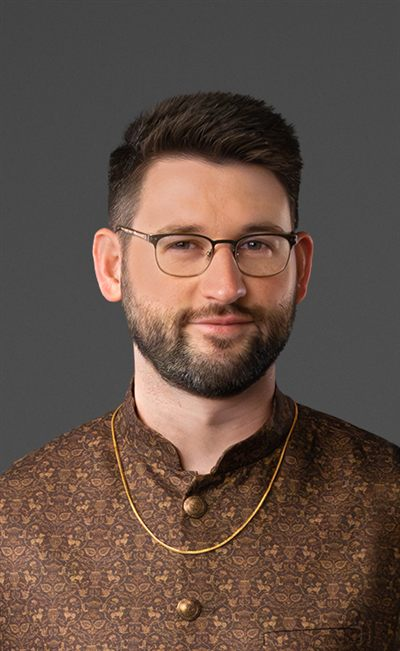
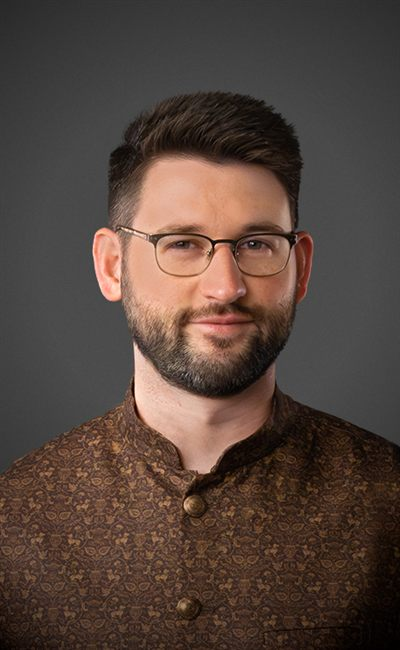
Rename section to Code, add repo thumbnails, add PhD to title, reorder publications, edit profile.png and about me text.

diff --git a/index.html b/index.html
@@ -25,7 +25,7 @@
   <header class="hero">
     <div class="wide">
       <div class="kicker">Research &amp; engineering</div>
-      <h1>Joe Bretz</h1>
+      <h1>Joe Bretz, PhD</h1>
       <p class="role">Physicist &middot; AI &amp; ML Engineer &middot; Data Scientist &middot; Cloud Developer</p>
       <p class="lede">I study gravitational waves from binary neutron stars, and how tidal interactions reveal what matter is like at its densest.</p>
       <p class="affil">Department of Physics, Montana State University, Bozeman, MT, USA</p>
@@ -75,29 +75,29 @@
         <h2 id="pubs-h">Publications</h2>
         <ul class="pubs">
           <li>
-            Bretz, J. &amp; Yu, H. (2026).
+            <b>Bretz, J.</b> &amp; Yu, H. (2026).
             <span class="title">Impact on Inferred Neutron Star Equation of State due to Nonlinear Hydrodynamics, Background Spin, and Relativity.</span>
-            <span class="where meta">Classical and Quantum Gravity &middot; <a href="https://doi.org/10.1088/1361-6382/ae76b5" rel="noopener">doi:10.1088/1361-6382/ae76b5</a> &middot; <a href="https://arxiv.org/abs/2602.04951" rel="noopener">arXiv:2602.04951</a></span>
+            <span class="where meta">Classical and Quantum Gravity &middot; <a href="https://doi.org/10.1088/1361-6382/ae76b5" rel="noopener">doi:10.1088/1361-6382/ae76b5</a> &middot; <a href="https://arxiv.org/abs/2602.04951" rel="noopener">arXiv</a></span>
           </li>
           <li>
-            Presnetsova, L., Anderson, L., Wahl, D. &amp; Bretz, J. (2023).
-            <span class="title">Automated Charcoal Counting and the Application of Machine Learning to Enhance Quality and Speed of Sedimentary Charcoal Quantification.</span>
-            <span class="where meta">AGU Fall Meeting Abstracts, PP13C-1246 &middot; <a href="https://ui.adsabs.harvard.edu/abs/2023AGUFMPP13C1246P" rel="noopener">ADS</a></span>
+            <b>Bretz, J.</b>, van Eysden, C. A. &amp; Link, B. (2021).
+            <span class="title">Tangled magnetic field model of QPOs.</span>
+            <span class="where meta">Monthly Notices of the Royal Astronomical Society &middot; <a href="https://doi.org/10.1093/mnras/stab1220" rel="noopener">doi:10.1093/mnras/stab1220</a> &middot; <a href="https://arxiv.org/abs/2206.09544" rel="noopener">arXiv</a></span>
           </li>
           <li>
-            Overton, C. T., Casazza, M. L., Bretz, J., et al. (2022).
+            <b>Bretz, J.</b>, Yagi, K. &amp; Yunes, N. (2015).
+            <span class="title">Four-hair relations for differentially rotating neutron stars in the weak-field limit.</span>
+            <span class="where meta">Physical Review D 92, 083009 &middot; <a href="https://doi.org/10.1103/PhysRevD.92.083009" rel="noopener">doi:10.1103/PhysRevD.92.083009</a> &middot; <a href="https://arxiv.org/abs/1507.02278" rel="noopener">arXiv</a></span>
+          </li>
+          <li>
+            Overton, C. T., Casazza, M. L., <b>Bretz, J.</b>, et al. (2022).
             <span class="title">Machine learned daily life history classification using low frequency tracking data and automated modelling pipelines: application to North American waterfowl.</span>
             <span class="where meta">Movement Ecology &middot; <a href="https://doi.org/10.1186/s40462-022-00324-7" rel="noopener">doi:10.1186/s40462-022-00324-7</a></span>
           </li>
           <li>
-            Bretz, J., van Eysden, C. A. &amp; Link, B. (2021).
-            <span class="title">Tangled magnetic field model of QPOs.</span>
-            <span class="where meta">Monthly Notices of the Royal Astronomical Society &middot; <a href="https://doi.org/10.1093/mnras/stab1220" rel="noopener">doi:10.1093/mnras/stab1220</a></span>
-          </li>
-          <li>
-            Bretz, J., Yagi, K. &amp; Yunes, N. (2015).
-            <span class="title">Four-hair relations for differentially rotating neutron stars in the weak-field limit.</span>
-            <span class="where meta">Physical Review D 92, 083009 &middot; <a href="https://doi.org/10.1103/PhysRevD.92.083009" rel="noopener">doi:10.1103/PhysRevD.92.083009</a></span>
+            Presnetsova, L., Anderson, L., Wahl, D. &amp; <b>Bretz, J.</b> (2023).
+            <span class="title">Automated Charcoal Counting and the Application of Machine Learning to Enhance Quality and Speed of Sedimentary Charcoal Quantification.</span>
+            <span class="where meta">AGU Fall Meeting Abstracts, PP13C-1246 &middot; <a href="https://ui.adsabs.harvard.edu/abs/2023AGUFMPP13C1246P" rel="noopener">ADS</a></span>
           </li>
         </ul>
         <p class="more"><a href="https://scholar.google.com/citations?view_op=list_works&amp;hl=en&amp;user=k36jlxEAAAAJ" rel="noopener">Full list on Google Scholar</a></p>
@@ -107,11 +107,38 @@
     <section id="code" aria-labelledby="code-h">
       <div class="inner">
         <div class="kicker">Repositories</div>
-        <h2 id="code-h">Code and data</h2>
+        <h2 id="code-h">Code</h2>
         <ul class="repos">
-          <li><a href="https://github.com/AstroJoeBretz/cosmic-singing-bowls" rel="noopener">cosmic-singing-bowls</a><br>Code, data and site for the &ldquo;Cosmic Singing Bowls&rdquo; visual story.</li>
-          <li><a href="https://github.com/AstroJoeBretz" rel="noopener">github.com/AstroJoeBretz</a><br>All repositories.</li>
+          <!-- Repo row: copy this whole <li> to add a repo (480x384 image in assets/repos/) -->
+          <li>
+            <a class="repo-thumb" href="https://github.com/AstroJoeBretz/cosmic-singing-bowls" rel="noopener" tabindex="-1" aria-hidden="true">
+              <img src="assets/repos/cosmic-singing-bowls.jpg" width="480" height="384" alt="A singing bowl and mallet from the Cosmic Singing Bowls story" loading="lazy">
+            </a>
+            <div class="repo-text">
+              <a href="https://github.com/AstroJoeBretz/cosmic-singing-bowls" rel="noopener">cosmic-singing-bowls</a>
+              <p>Code, data and site for the &ldquo;Cosmic Singing Bowls&rdquo; visual story.</p>
+            </div>
+          </li>
+          <li>
+            <a class="repo-thumb" href="https://github.com/AstroJoeBretz/Tidal-BNS-Sculpture" rel="noopener" tabindex="-1" aria-hidden="true">
+              <img src="assets/repos/tidal-bns-sculpture.jpg" width="480" height="384" alt="A walnut sculpture with a spiral of spacetime ripples around two white neutron stars" loading="lazy">
+            </a>
+            <div class="repo-text">
+              <a href="https://github.com/AstroJoeBretz/Tidal-BNS-Sculpture" rel="noopener">Tidal-BNS-Sculpture</a>
+              <p>Generate STL files of 3D-modeled, tidally deformed binary neutron stars above spiraling spacetime ripples.</p>
+            </div>
+          </li>
+          <li>
+            <a class="repo-thumb" href="https://github.com/AstroJoeBretz/choppy-water" rel="noopener" tabindex="-1" aria-hidden="true">
+              <img src="assets/repos/choppy-water.jpg" width="480" height="384" alt="A 3D render of a disc with a choppy-water surface" loading="lazy">
+            </a>
+            <div class="repo-text">
+              <a href="https://github.com/AstroJoeBretz/choppy-water" rel="noopener">choppy-water</a>
+              <p>Generate STL files of Tessendorf-style (or Gerstner) choppy water pieces for 3D milling: a disc or rectangle with a flat bottom and a choppy-water top.</p>
+            </div>
+          </li>
         </ul>
+        <p class="more"><a href="https://github.com/AstroJoeBretz" rel="noopener">All repositories on GitHub</a></p>
       </div>
     </section>
 
@@ -121,11 +148,11 @@
         <h2 id="about-h">About me</h2>
         <div class="about">
           <div class="photo">
-            <img src="assets/profile.jpg" width="400" height="651" alt="Portrait of Joe Bretz" loading="lazy">
+            <img src="assets/profile.jpg" width="400" height="650" alt="Portrait of Joe Bretz" loading="lazy">
           </div>
           <div>
-            <p class="bio">I'm a theoretical astrophysicist with a PhD in physics from Montana State University (2026). I develop machine-learning methods for gravitational-wave inference, and I study what binary neutron stars reveal about the equation of state of matter at extreme density.</p>
-            <p class="bio">For five years, alongside my PhD, I built and deployed machine-learning systems on AWS for USGS science teams: containerized batch inference pipelines, SageMaker labeling and training workflows, and a Bedrock-based agent pilot. I also led the security review that released Amazon Bedrock to the agency. My ML work spans computer vision, tabular modeling and Bayesian inference, with careful evaluation throughout.</p>
+            <p class="bio">I'm a theoretical astrophysicist with a PhD in physics from Montana State University (2026). I developed machine-learning methods for gravitational-wave inference, and I studied what binary neutron stars reveal about the equation of state of matter at extreme density.</p>
+            <p class="bio">For five years, alongside my PhD, I built and deployed machine-learning systems on AWS for USGS science teams: containerized batch inference pipelines, SageMaker labeling and training workflows, and a Bedrock-based agentic AI pilot. I also led the security review that released Amazon Bedrock to the agency. My ML work spans computer vision, tree-based modeling and Bayesian inference, along with deploying these solutions in production environments.</p>
             <ul class="links" aria-label="Profiles">
               <li><a class="btn ghost" href="https://orcid.org/0000-0001-5054-0070" rel="noopener">ORCID</a></li>
               <li><a class="btn ghost" href="https://scholar.google.com/citations?view_op=list_works&amp;hl=en&amp;user=k36jlxEAAAAJ" rel="noopener">Google Scholar</a></li>

diff --git a/css/style.css b/css/style.css
@@ -87,13 +87,22 @@ nav a:hover { text-decoration: underline; }
 .pubs .title { font-style: italic; }
 .pubs .where { display: block; margin-top: .15rem; }
 .repos a { font-family: "Segoe UI", system-ui, -apple-system, Helvetica, Arial, sans-serif; font-weight: 600; }
+.repos li { display: flex; gap: 1rem; align-items: flex-start; }
+.repos .repo-thumb { flex: 0 0 7rem; }
+.repos .repo-thumb img {
+  width: 100%; aspect-ratio: 5 / 4; object-fit: cover;
+  border: 1px solid var(--sand); border-radius: 8px; background: var(--panel);
+}
+.repos .repo-text { flex: 1; min-width: 0; }
+.repos .repo-text p { margin: .15rem 0 0; }
+@media (min-width: 701px) { .repos .repo-thumb { flex-basis: 10rem; } .repos li { gap: 1.4rem; } }
 .more { margin-top: 1.2rem; font-size: 1rem; }
 
 /* about */
 .about { display: grid; grid-template-columns: 1fr; gap: 1.6rem; align-items: start; }
 .about .photo { width: 11rem; }
 .about .photo img {
-  width: 100%; aspect-ratio: 4 / 5; object-fit: cover; object-position: top;
+  width: 100%; aspect-ratio: 8 / 13; object-fit: cover; object-position: top;
   border: 1px solid var(--sand); border-radius: 10px; background: var(--panel);
 }
 .links { list-style: none; display: flex; flex-wrap: wrap; gap: .5rem; padding: 0; margin: 1.2rem 0 0; }
